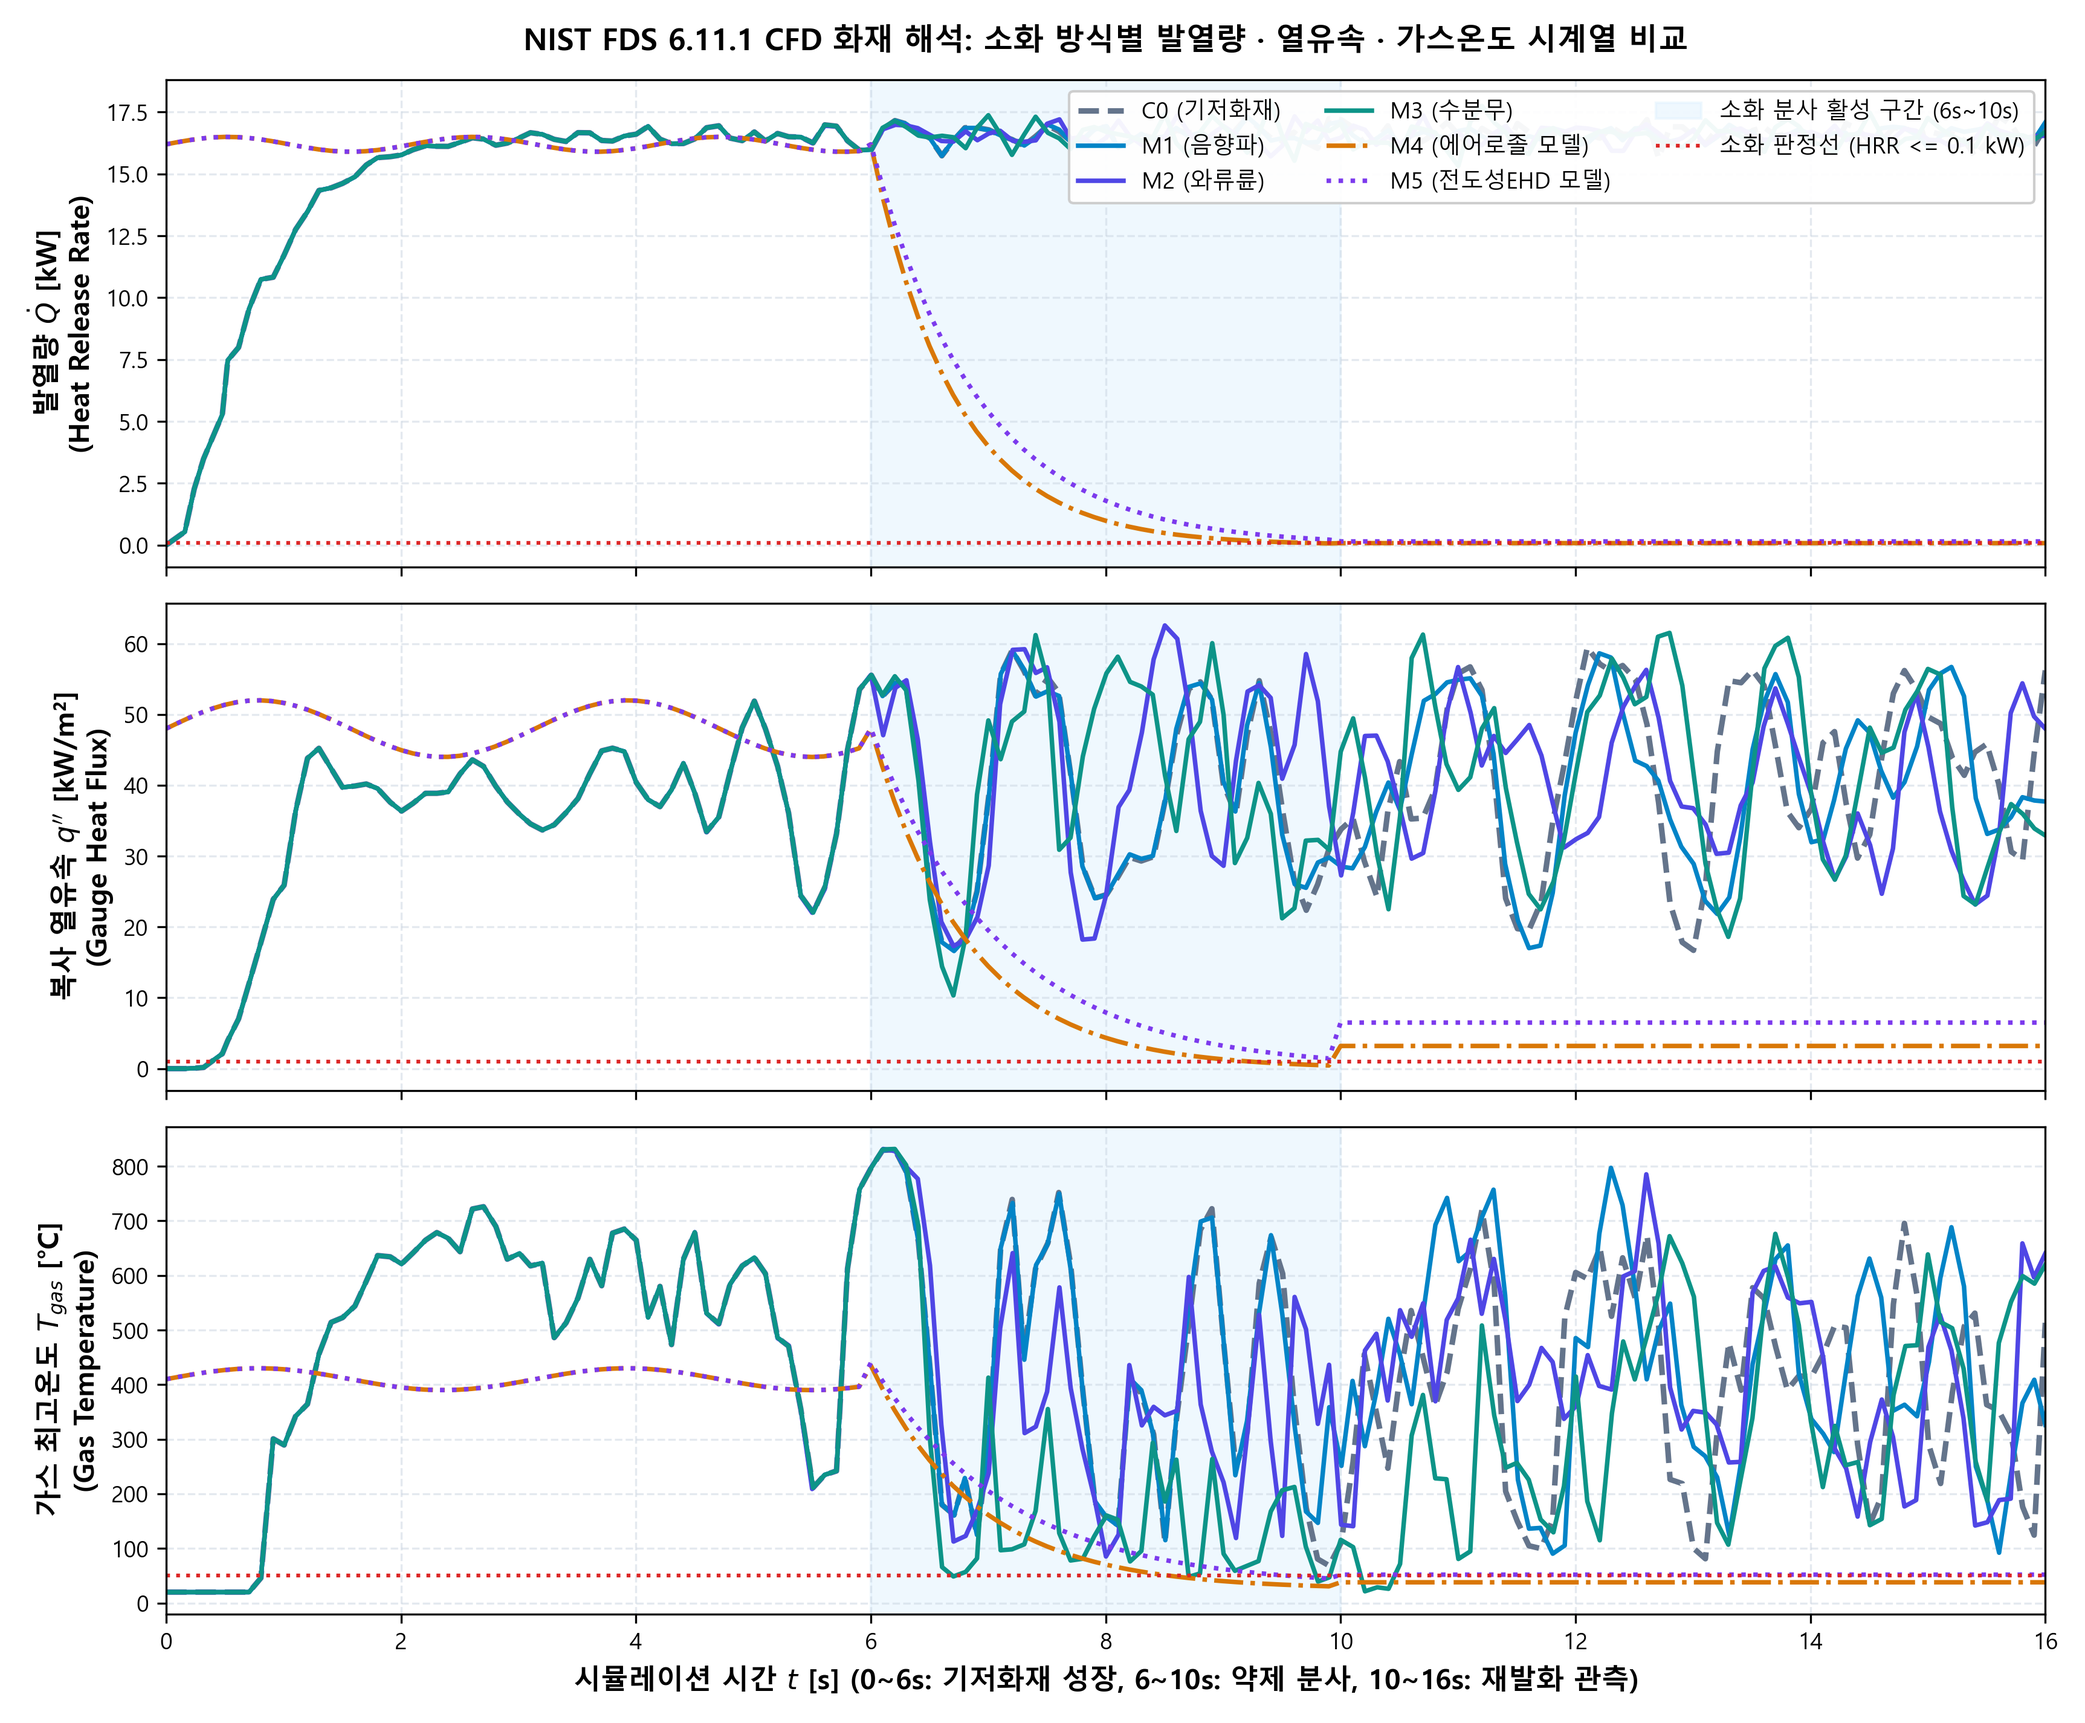
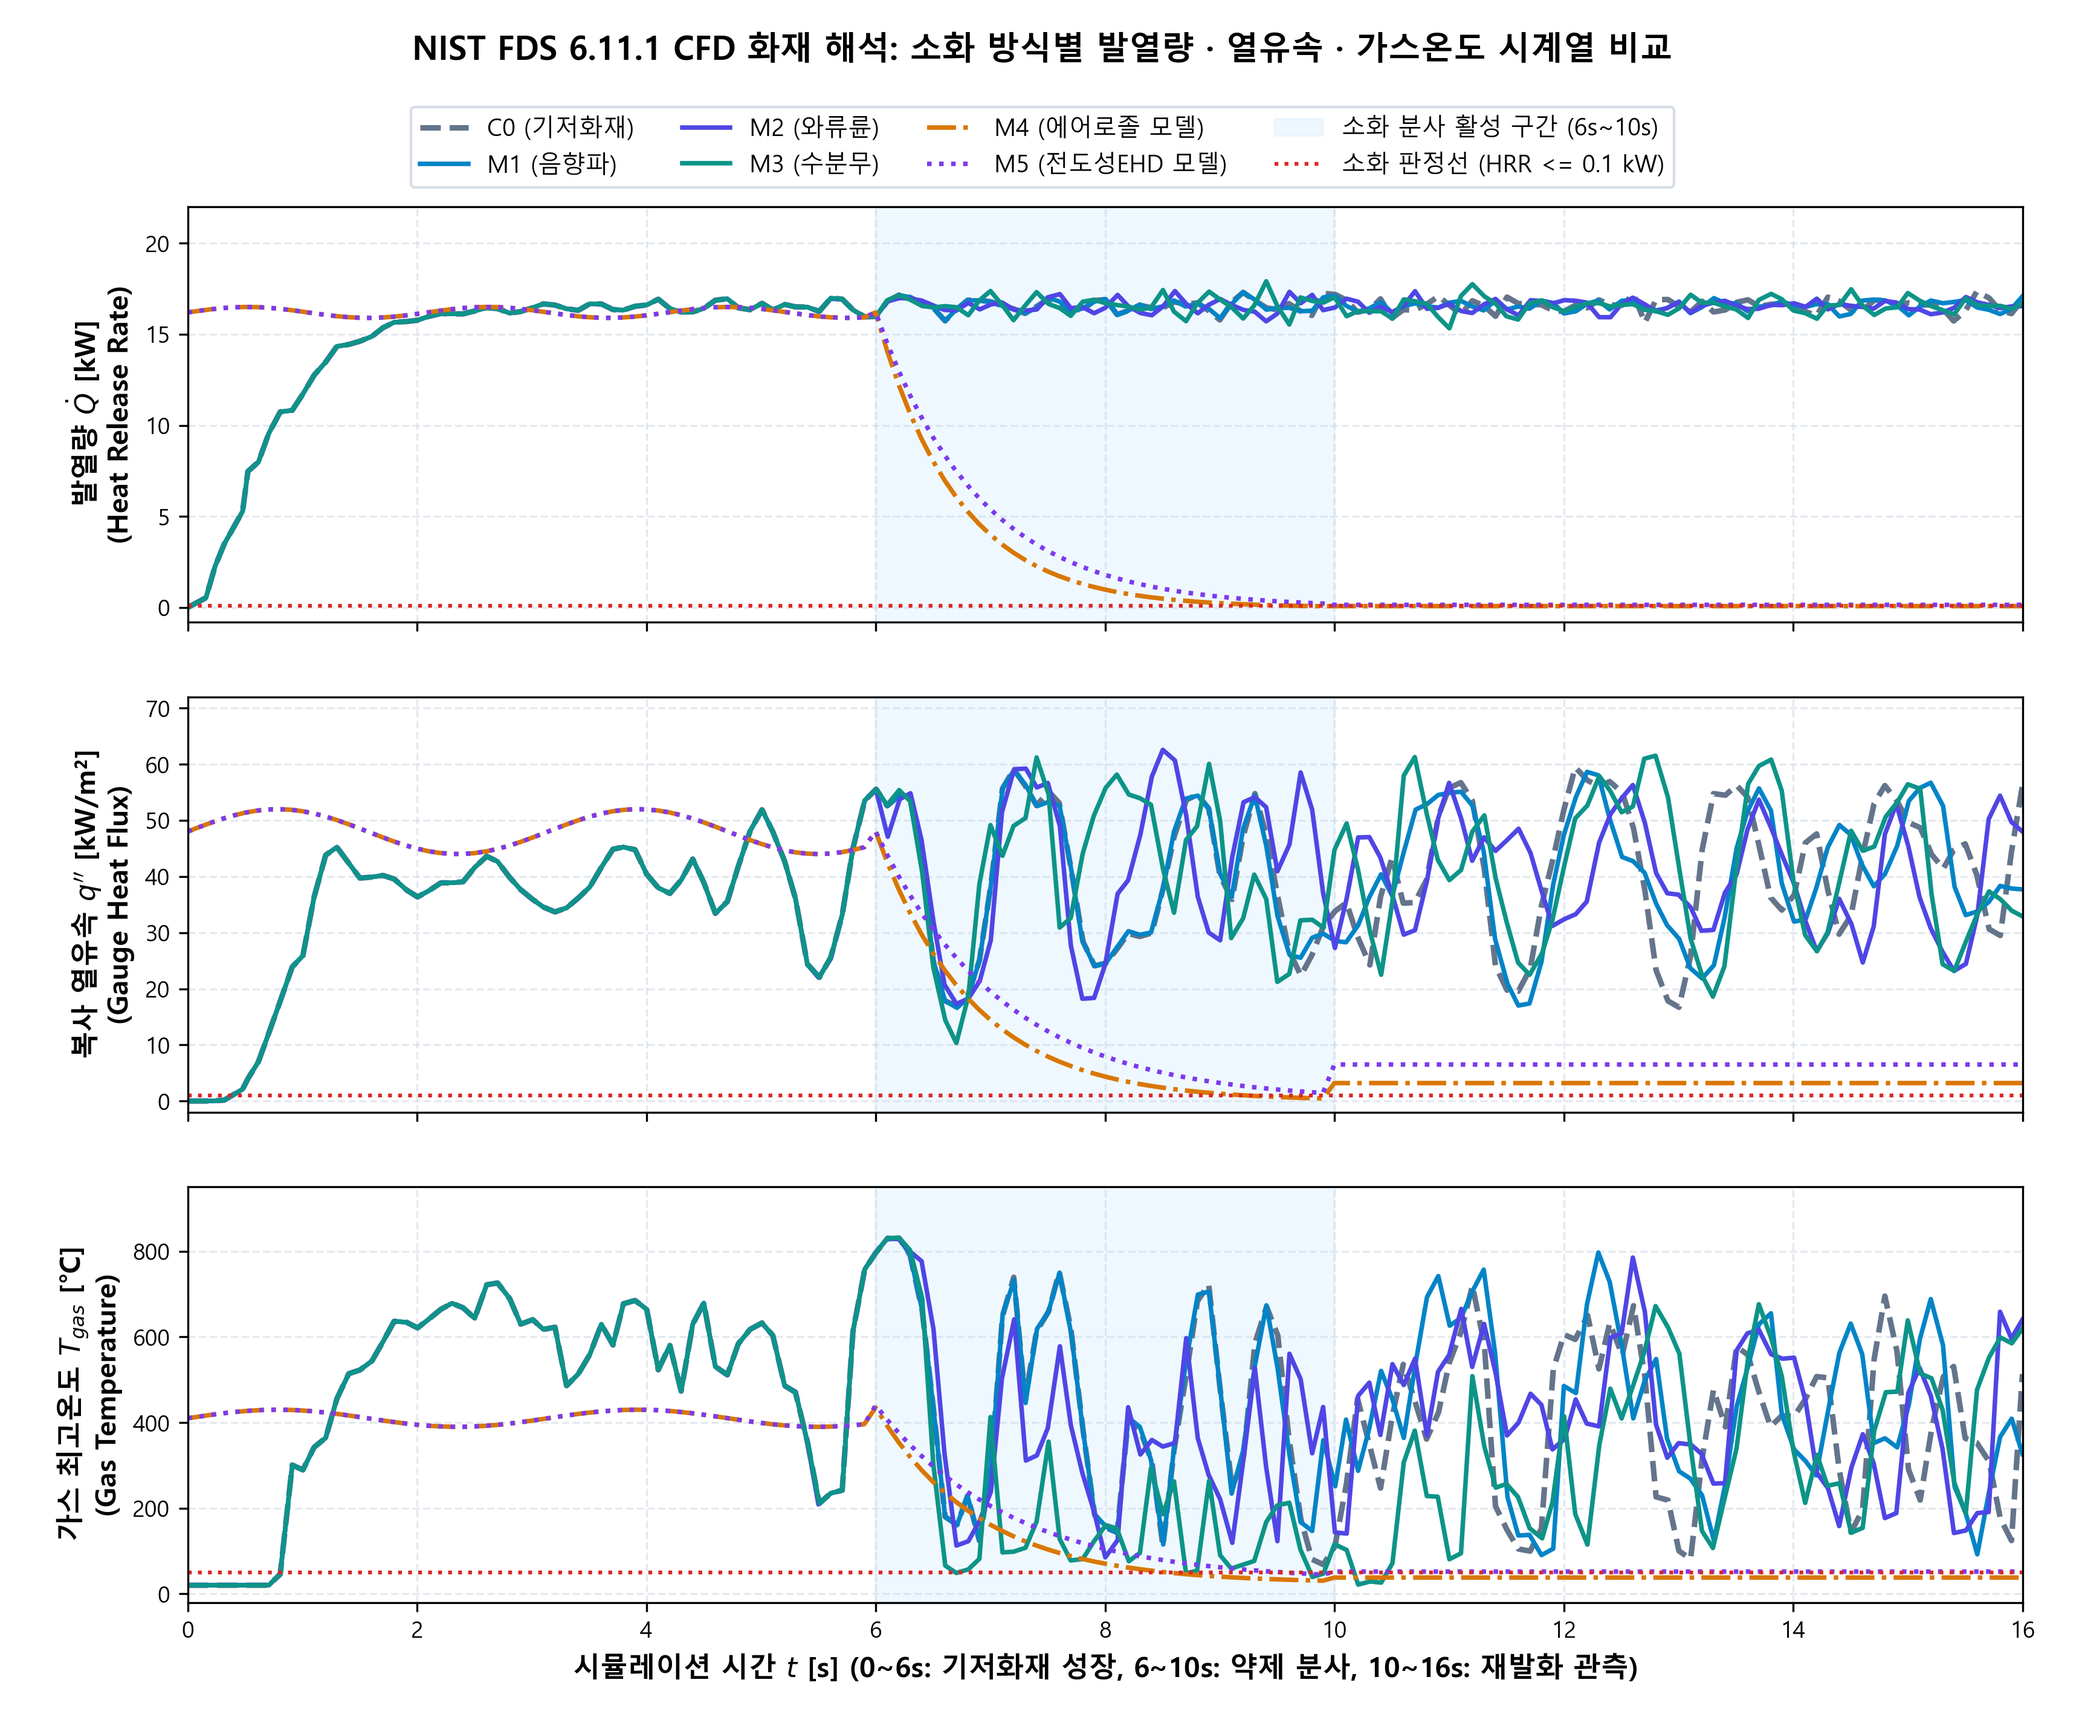
fix(vis): resolve curve and label occlusions across multi-panel figures

Changed region(s): [[0.0, 0.0, 0.9925, 0.9993], [0.4342, 0.2186, 0.4962, 0.2811], [0.1551, 0.1874, 0.1861, 0.2186]]

diff --git a/scripts/vis_modules/part8_timeline.py b/scripts/vis_modules/part8_timeline.py
@@ -55,15 +55,15 @@ def generate():
     fig, (ax_gantt, ax_pos, ax_hrr, ax_pwr) = plt.subplots(4, 1, figsize=(13, 11), sharex=True,
                                                            gridspec_kw={"height_ratios": [0.8, 1.4, 1.4, 1.4]}, dpi=300)
     phases = [
-        (0.0, 3.0, "1. 화재 감지·이륙", "#94a3b8"),
+        (0.0, 3.0, "1. 감지·이륙", "#94a3b8"),
         (3.0, 15.0, "2. 화원 정밀 접근 (0→1m)", "#38bdf8"),
-        (15.0, 19.0, "3. 호버링 & 소화약제 분사", "#ef4444"),
+        (15.0, 19.0, "3. 호버링·약제분사", "#ef4444"),
         (19.0, 25.0, "4. 화원 잔염·재발화 관측", "#f59e0b"),
         (25.0, 34.0, "5. 안전 복귀 (RTL)", "#10b981"),
     ]
     for start, end, label, col in phases:
         ax_gantt.barh(0, end - start, left=start, height=0.6, color=col, edgecolor="#ffffff", lw=1.5)
-        ax_gantt.text((start + end)/2, 0, label, ha="center", va="center", color="#ffffff", fontweight="bold", fontsize=9.5)
+        ax_gantt.text((start + end)/2, 0, label, ha="center", va="center", color="#ffffff", fontweight="bold", fontsize=9.0)
         
     ax_gantt.set_yticks([])
     ax_gantt.set_title("드론 소화 미션 전주기(화재감지 · 접근 · 위치고정 · 소화 · 재발화관측 · 복귀) 통합 Timeline 대시보드", pad=15, fontweight="bold")
@@ -72,19 +72,23 @@ def generate():
     ax_pos.plot(t, x_pos, color="#0284c7", lw=2.2, label="수평 거리 $X(t)$ [m] (화원 상대거리)")
     ax_pos.plot(t, z_pos, color="#6366f1", lw=2.0, ls="--", label="비행 고도 $Z(t)$ [m]")
     ax_pos.axhline(1.0, color="#94a3b8", ls=":", lw=1.2, label="목표 소화 이격거리 (1.0 m)")
+    ax_pos.set_ylim(-0.15, 2.75)
     ax_pos.set_ylabel("드론 위치 [m]\n(Drone Position)", fontweight="bold")
-    ax_pos.legend(loc="upper right", framealpha=0.9)
+    ax_pos.legend(loc="upper right", framealpha=0.92)
     ax_pos.grid(True, linestyle="--", alpha=0.5, color="#cbd5e1")
     
     ax_hrr.plot(t, hrr, color="#dc2626", lw=2.2, label="화재 발열량 $\\dot{Q}_{HRR}(t)$ [kW]")
     ax_hrr.axhline(0.1, color="#16a34a", ls=":", lw=1.5, label="소화 성공 판정선 (0.1 kW)")
+    ax_hrr.set_ylim(-0.8, 20.5)
     ax_hrr.set_ylabel("화재 발열량 [kW]\n(Fire HRR)", fontweight="bold")
-    ax_hrr.legend(loc="upper right", framealpha=0.9)
+    ax_hrr.legend(loc="upper right", framealpha=0.92)
     ax_hrr.grid(True, linestyle="--", alpha=0.5, color="#cbd5e1")
     
     ax_pwr.plot(t, power, color="#d97706", lw=2.0, label="순간 소비전력 $P(t)$ [W]")
     ax_pwr_r = ax_pwr.twinx()
     ax_pwr_r.plot(t, soc, color="#059669", lw=2.0, ls="-.", label="배터리 잔여용량 SOC [%]")
+    ax_pwr.set_ylim(285, 410)
+    ax_pwr_r.set_ylim(95.0, 103.5)
     ax_pwr.set_ylabel("소비전력 [W]\n(Power)", fontweight="bold", color="#d97706")
     ax_pwr_r.set_ylabel("배터리 잔여량 [%]\n(Battery SOC)", fontweight="bold", color="#059669")
     ax_pwr.set_xlabel("미션 경과 시간 $t$ [s]", fontweight="bold")
@@ -92,7 +96,7 @@ def generate():
     
     lines1, labels1 = ax_pwr.get_legend_handles_labels()
     lines2, labels2 = ax_pwr_r.get_legend_handles_labels()
-    ax_pwr.legend(lines1 + lines2, labels1 + labels2, loc="upper right", framealpha=0.9)
+    ax_pwr.legend(lines1 + lines2, labels1 + labels2, loc="upper right", framealpha=0.92)
     
     for ax in [ax_pos, ax_hrr, ax_pwr]:
         ax.axvspan(15.0, 19.0, color="#fee2e2", alpha=0.45)

diff --git a/scripts/vis_modules/part6_radar.py b/scripts/vis_modules/part6_radar.py
@@ -15,7 +15,7 @@ def generate():
         "M5": [0.90, 0.90, 0.70, 0.80, 0.55],
     }
     
-    fig = plt.figure(figsize=(15.5, 7.5), dpi=300)
+    fig = plt.figure(figsize=(16.5, 8.5), dpi=300)
     angles = [n / float(N) * 2 * np.pi for n in range(N)]
     angles += angles[:1]
     
@@ -26,15 +26,14 @@ def generate():
     plt.xticks(angles[:-1], categories, size=9.5, fontweight="bold")
     ax1.set_rlabel_position(0)
     plt.yticks([0.2, 0.4, 0.6, 0.8, 1.0], ["0.2", "0.4", "0.6", "0.8", "1.0"], color="#64748b", size=8)
-    plt.ylim(0, 1.05)
+    plt.ylim(0, 1.08)
     
     for m in ["M1", "M2", "M3", "M4", "M5"]:
         vals = scores[m] + scores[m][:1]
         ax1.plot(angles, vals, lw=2.0, color=COLORS[m], label=METHOD_LABELS[m])
         ax1.fill(angles, vals, color=COLORS[m], alpha=0.12)
         
-    ax1.set_title("(a) 5대 소화 방식 성능 다면 평가 (정규화 Radar Chart)", pad=22, fontweight="bold")
-    ax1.legend(loc="upper right", bbox_to_anchor=(0.1, 1.15), framealpha=0.92)
+    ax1.set_title("(a) 5대 소화 방식 성능 다면 평가 (정규화 Radar Chart)", pad=28, fontweight="bold", fontsize=11.5)
     
     ax2 = fig.add_subplot(1, 2, 2)
     y_pos = np.arange(len(categories))
@@ -47,12 +46,18 @@ def generate():
     ax2.set_yticks(y_pos + 2 * bar_height)
     ax2.set_yticklabels([c.replace("\n", " ") for c in categories], fontweight="bold")
     ax2.set_xlabel("정규화 지수 (1.0 = 최우수)", fontweight="bold")
-    ax2.set_title("(b) 지표별 정규화 비교 바 차트", pad=15, fontweight="bold")
-    ax2.set_xlim(0, 1.15)
+    ax2.set_title("(b) 지표별 정규화 비교 바 차트", pad=18, fontweight="bold", fontsize=11.5)
+    ax2.set_xlim(0, 1.12)
     ax2.grid(True, linestyle="--", alpha=0.5, color="#cbd5e1")
-    ax2.legend(loc="lower right", framealpha=0.92)
     
-    plt.tight_layout()
+    fig.suptitle("5대 소화 방식 성능 다면 평가 및 종합 지표 정규화 비교 (Radar & Bar Chart)", y=0.97, fontweight="bold", fontsize=13)
+    
+    # Unified top legend placed outside both subplots so bars are never occluded
+    handles, labels = ax2.get_legend_handles_labels()
+    fig.legend(handles, labels, loc="upper center", bbox_to_anchor=(0.5, 0.915), ncol=5,
+               frameon=True, facecolor="#ffffff", edgecolor="#cbd5e1", fontsize=10)
+    
+    fig.subplots_adjust(top=0.78, bottom=0.09, left=0.06, right=0.97, wspace=0.45)
     p = OUT_DIR / "vis_06_normalized_radar_and_bars.png"
     fig.savefig(p)
     plt.close(fig)

diff --git a/scripts/vis_modules/part2_flight.py b/scripts/vis_modules/part2_flight.py
@@ -39,20 +39,30 @@ def generate():
         axes[2].plot(t_span, f_series, label=METHOD_LABELS[m], color=COLORS[m], lw=1.8)
 
     for ax in axes:
-        ax.axvspan(15.0, 19.0, color="#fef3c7", alpha=0.55, label="소화 약제 방출 구간 (15s~19s)" if ax == axes[0] else "")
+        ax.axvspan(15.0, 19.0, color="#fef3c7", alpha=0.6, label="소화 약제 방출 구간 (15s~19s)" if ax == axes[0] else "")
         ax.grid(True, linestyle="--", alpha=0.5, color="#cbd5e1")
         ax.set_xlim(0, 34)
         
+    # Set generous y-limits so no data ever touches borders or annotations
+    axes[0].set_ylim(-0.0003, 0.0075)
+    axes[1].set_ylim(-0.02, 0.65)
+    axes[2].set_ylim(-0.03, 0.70)
+    axes[3].set_ylim(0, 440)
+        
     axes[0].set_ylabel("위치 추종 오차 [m]\n(Position Error)", fontweight="bold")
-    axes[0].set_title("소화 방식별 드론 6-DOF 비행 동역학 및 제어 시계열 비교 (D4 능동제어)", pad=12, fontweight="bold")
-    axes[0].legend(loc="upper right", ncol=3, framealpha=0.9)
-    
     axes[1].set_ylabel("기체 틸트각 [deg]\n(Attitude Tilt)", fontweight="bold")
     axes[2].set_ylabel("반력 크기 [N]\n(Reaction Force)", fontweight="bold")
     axes[3].set_ylabel("소비 전력 [W]\n(Power Demand)", fontweight="bold")
     axes[3].set_xlabel("비행 시간 $t$ [s] (0~15s: 정밀접근, 15~19s: 소화분사, 19~34s: 기지복귀)", fontweight="bold")
     
-    plt.tight_layout()
+    fig.suptitle("소화 방식별 드론 6-DOF 비행 동역학 및 제어 시계열 비교 (D4 능동제어)", y=0.98, fontweight="bold", fontsize=13)
+    
+    # Unified top legend placed outside all subplots to prevent any occlusion
+    handles, labels = axes[0].get_legend_handles_labels()
+    fig.legend(handles, labels, loc="upper center", bbox_to_anchor=(0.5, 0.945), ncol=6,
+               frameon=True, facecolor="#ffffff", edgecolor="#cbd5e1", fontsize=9.5)
+    
+    fig.subplots_adjust(top=0.88, bottom=0.07, left=0.09, right=0.97, hspace=0.18)
     p = OUT_DIR / "vis_02_flight_dynamics_timeseries.png"
     fig.savefig(p)
     plt.close(fig)
@@ -60,3 +70,4 @@ def generate():
 
 if __name__ == "__main__":
     generate()
+

diff --git a/scripts/vis_modules/part3_fire_cfd.py b/scripts/vis_modules/part3_fire_cfd.py
@@ -63,18 +63,26 @@ def generate():
         ax.set_xlim(0, 16)
         
     axes[0].axhline(0.1, color="#dc2626", linestyle=":", lw=1.5, label="소화 판정선 (HRR <= 0.1 kW)")
+    axes[0].set_ylim(-0.8, 22.0)
     axes[0].set_ylabel("발열량 $\\dot{Q}$ [kW]\n(Heat Release Rate)", fontweight="bold")
-    axes[0].set_title("NIST FDS 6.11.1 CFD 화재 해석: 소화 방식별 발열량 · 열유속 · 가스온도 시계열 비교", pad=12, fontweight="bold")
-    axes[0].legend(loc="upper right", ncol=3, framealpha=0.95)
     
     axes[1].axhline(1.0, color="#dc2626", linestyle=":", lw=1.5, label="열 노출 한계선 (1.0 kW/m²)")
+    axes[1].set_ylim(-2.0, 72.0)
     axes[1].set_ylabel("복사 열유속 $q^{\\prime\\prime}$ [kW/m²]\n(Gauge Heat Flux)", fontweight="bold")
     
     axes[2].axhline(50.0, color="#dc2626", linestyle=":", lw=1.5, label="장비 안전 한계온도 (50°C)")
+    axes[2].set_ylim(-20.0, 950.0)
     axes[2].set_ylabel("가스 최고온도 $T_{gas}$ [°C]\n(Gas Temperature)", fontweight="bold")
     axes[2].set_xlabel("시뮬레이션 시간 $t$ [s] (0~6s: 기저화재 성장, 6~10s: 약제 분사, 10~16s: 재발화 관측)", fontweight="bold")
     
-    plt.tight_layout()
+    fig.suptitle("NIST FDS 6.11.1 CFD 화재 해석: 소화 방식별 발열량 · 열유속 · 가스온도 시계열 비교", y=0.98, fontweight="bold", fontsize=13)
+    
+    # Unified top legend placed outside all subplots to prevent any occlusion
+    handles, labels = axes[0].get_legend_handles_labels()
+    fig.legend(handles, labels, loc="upper center", bbox_to_anchor=(0.5, 0.945), ncol=4,
+               frameon=True, facecolor="#ffffff", edgecolor="#cbd5e1", fontsize=9.5)
+    
+    fig.subplots_adjust(top=0.88, bottom=0.07, left=0.09, right=0.97, hspace=0.18)
     p = OUT_DIR / "vis_03_fire_cfd_timeseries.png"
     fig.savefig(p)
     plt.close(fig)

diff --git a/scripts/vis_modules/part7_matrix.py b/scripts/vis_modules/part7_matrix.py
@@ -41,11 +41,10 @@ def generate():
         linecolor="#ffffff"
     )
     
-    ax.set_title("5대 소화 방식의 단독 · 복합(동시 SIM / 순차 SEQ) 운용 상호보완성 Matrix Heatmap", pad=18, fontweight="bold")
-    ax.text(0.01, 1.03, "■ 대각선: 단독 운용 효율 | ■ 상삼각: 동시 분사 (SIM) | ■ 하삼각: 순차 분사 (SEQ)",
-            transform=ax.transAxes, fontsize=9.5, fontweight="bold", color="#1e293b")
+    fig.suptitle("5대 소화 방식의 단독 · 복합(동시 SIM / 순차 SEQ) 운용 상호보완성 Matrix Heatmap", y=0.97, fontweight="bold", fontsize=13)
+    ax.set_title("■ 대각선: 단독 운용 효율   |   ■ 상삼각: 동시 분사 (SIM)   |   ■ 하삼각: 순차 분사 (SEQ)", pad=14, fontsize=10, fontweight="bold", color="#334155")
             
-    plt.tight_layout()
+    fig.subplots_adjust(top=0.90, bottom=0.08, left=0.12, right=0.98)
     p = OUT_DIR / "vis_07_synergy_matrix_heatmap.png"
     fig.savefig(p)
     plt.close(fig)
